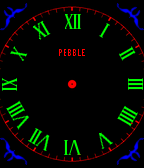
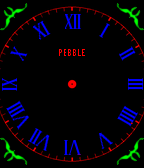
ready for version 3.3

diff --git a/config_watch.py b/config_watch.py
@@ -141,8 +141,8 @@ watches = {
 hands = {
     'a' : [('hour', ('a_hour_hand.png', 1, False, (78, 398), 0.12), None),
            ('minute', ('a_minute_hand.png', 1, True, (37, 553), 0.12), None),
-           ('second', ('a_second_hand.png', 1, False, (37, -24), 0.12),
-            [(1, [(0, -5), (0, -70)])]),
+           ('second', ('a_second_hand.png', 2, False, (37, 37), 0.12),
+            [(2, [(0, -5), (0, -70)])]),
            ],
     'b' : [('hour', ('b_hour_hand.png', 1, False, (33, 211), 0.27), None),
            ('minute', ('b_minute_hand.png', 1, False, (24, 280), 0.27), None),
@@ -222,8 +222,9 @@ faces = {
     'a' : {
         'filename': ['a_face.png', 'a_face_unrotated.png'],
         'aplite_invert' : True,
-        'colors' : [ (('Yellow', 'Black', 'Black', 'Black'), ('White', 'Black')),
-                     (('White', 'Blue', 'Red', 'Green'), ('White', 'Black')),
+        'colors' : [ (('Yellow', 'Black', 'DarkCandyAppleRed', 'Black'), ('PastelYellow', 'Black')),
+                     (('ElectricBlue', 'DukeBlue', 'DarkCandyAppleRed', 'ElectricUltramarine'), ('BabyBlueEyes', 'Black')),
+                     (('MediumSpringGreen', 'Black', 'DarkCandyAppleRed', 'DarkGreen'), ('DarkGreen', 'White')),
                      ],
         'date_window_a': (38, 82, 'b'),
         'date_window_b': (106, 82, 'b'),
@@ -238,8 +239,8 @@ faces = {
         'filename' : ['b_face_rect.png'],
         'aplite_invert' : True,
         'colors' : [ (('PictonBlue', 'Black', 'DarkCandyAppleRed', 'Black'), ('BabyBlueEyes', 'Black')),
-                     (('Yellow', 'BulgarianRose', 'DarkCandyAppleRed', 'OxfordBlue'), ('BrilliantRose', 'Black')),
-                     (('BrilliantRose', 'Blue', 'DukeBlue', 'BulgarianRose'), ('PastelYellow', 'Black')),
+                     (('Yellow', 'BulgarianRose', 'DukeBlue', 'OxfordBlue'), ('PastelYellow', 'Black')),
+                     (('BrilliantRose', 'Blue', 'DarkCandyAppleRed', 'BulgarianRose'), ('RichBrilliantLavender', 'Black')),
                      ],
         'date_window_a' : (72, 54, 'b'),
         'date_window_b' : (52, 109, 'b'),
@@ -252,15 +253,16 @@ faces = {
     'c' : {
         'filename' : ['c_face_rect.png', 'c_face.png'],
         'colors' : [ (('Black', 'White', 'White', 'Yellow'), ('Black', 'White')),
-                     (('Yellow', 'Black', 'Blue', 'Red'), ('Black', 'White')),
+                     (('Yellow', 'Black', 'Blue', 'Red'), ('PastelYellow', 'Black')),
+                     (('ElectricUltramarine', 'Black', 'Yellow', 'White'), ('VividCerulean', 'Black')),
                      ],
         'chrono' : ('c_face_chrono_tenths.png', 'c_face_chrono_hours.png'),
         'centers' : (('chrono_minute', 115, 84), ('chrono_tenth', 72, 126), ('second', 29, 84)),
         'date_window_a' : (52, 45, 'b'),
         'date_window_b' : (92, 45, 'b'),
         'date_window_filename' : ('date_window.png', 'date_window_mask.png'),
-        'bluetooth' : [ (0, 0, 'b'), (16, 18, 'b'), ],
-        'battery' : [ (125, 3, 'b'), (109, 21, 'b'), ],
+        'bluetooth' : [ (16, 18, 'b'), (0, 0, 'b'), ],
+        'battery' : [ (109, 21, 'b'), (123, 3, 'b'), ],
         'defaults' : [ 'second' ],
         },
     'd' : {
@@ -283,8 +285,8 @@ faces = {
     'e' : {
         'filename' : ['e_face.png', 'e_face_white.png'],
         'colors' : [ (('Black', 'Icterine', 'Yellow', 'PastelYellow'), ('White', 'Black')),
-                     (('Black', 'White', 'White', 'White'), ('White', 'Black')),
-                     (('Black', 'FashionMagenta', 'VeryLightBlue', 'White'), ('White', 'Black')),
+                     (('Black', 'FashionMagenta', 'ShockingPink', 'White'), ('White', 'Black')),
+                     (('Black', 'LavenderIndigo', 'BabyBlueEyes', 'White'), ('White', 'Black')),
                      ],
         'date_window_a' : (72, 21, 'w'),
         'date_window_b' : (21, 82, 'w'),
